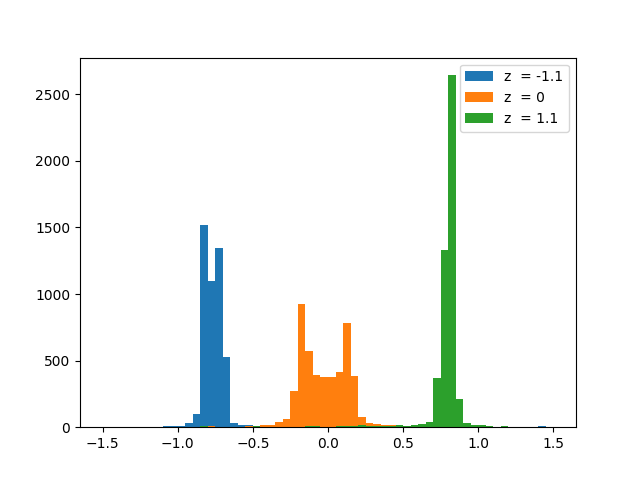
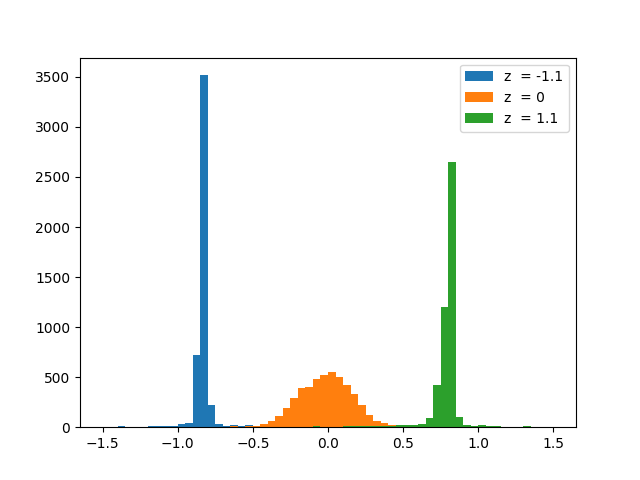
generic commit

diff --git a/scripts/transport/c_transport.py b/scripts/transport/c_transport.py
@@ -364,9 +364,9 @@ def conditional_transport_exp(ref_gen, target_gen, N = 1000, n_iter = 1001, slic
     fit_params = {'name': 'r_quadratic', 'l': l * torch.exp(torch.tensor(-1.25)), 'alpha': 1}
     exp_params = {'fit': mmd_params, 'mmd': fit_params}
 
-    trained_models = train_cond_transport(ref_gen, target_gen, exp_params, N, n_iter, process_funcs,
-                                          base_model_trainer = base_VAEkernel_transport,
-                                          cond_model_trainer = cond_VAEkernel_transport)
+    trained_models = train_cond_transport(ref_gen, target_gen, exp_params, N, n_iter, process_funcs)
+                                          #,base_model_trainer = base_VAEkernel_transport,
+                                          #cond_model_trainer = cond_VAEkernel_transport)
 
     gen_sample = compositional_gen(trained_models, ref_gen(N))
 
@@ -399,7 +399,7 @@ def run():
     range = [[-2.5,2.5],[-1.1,1.1]]
     #process_funcs = [flip_2tensor, flip_2tensor]
     process_funcs = []
-    conditional_transport_exp(ref_gen, target_gen, exp_name= 'mgan2_CVAE', N = 5000, n_iter = 10000,
+    conditional_transport_exp(ref_gen, target_gen, exp_name= 'mgan2', N = 5000, n_iter = 10000,
                               plt_range=range, process_funcs=process_funcs, slice_vals=[-1.1, 0, 1.1])
 
 
